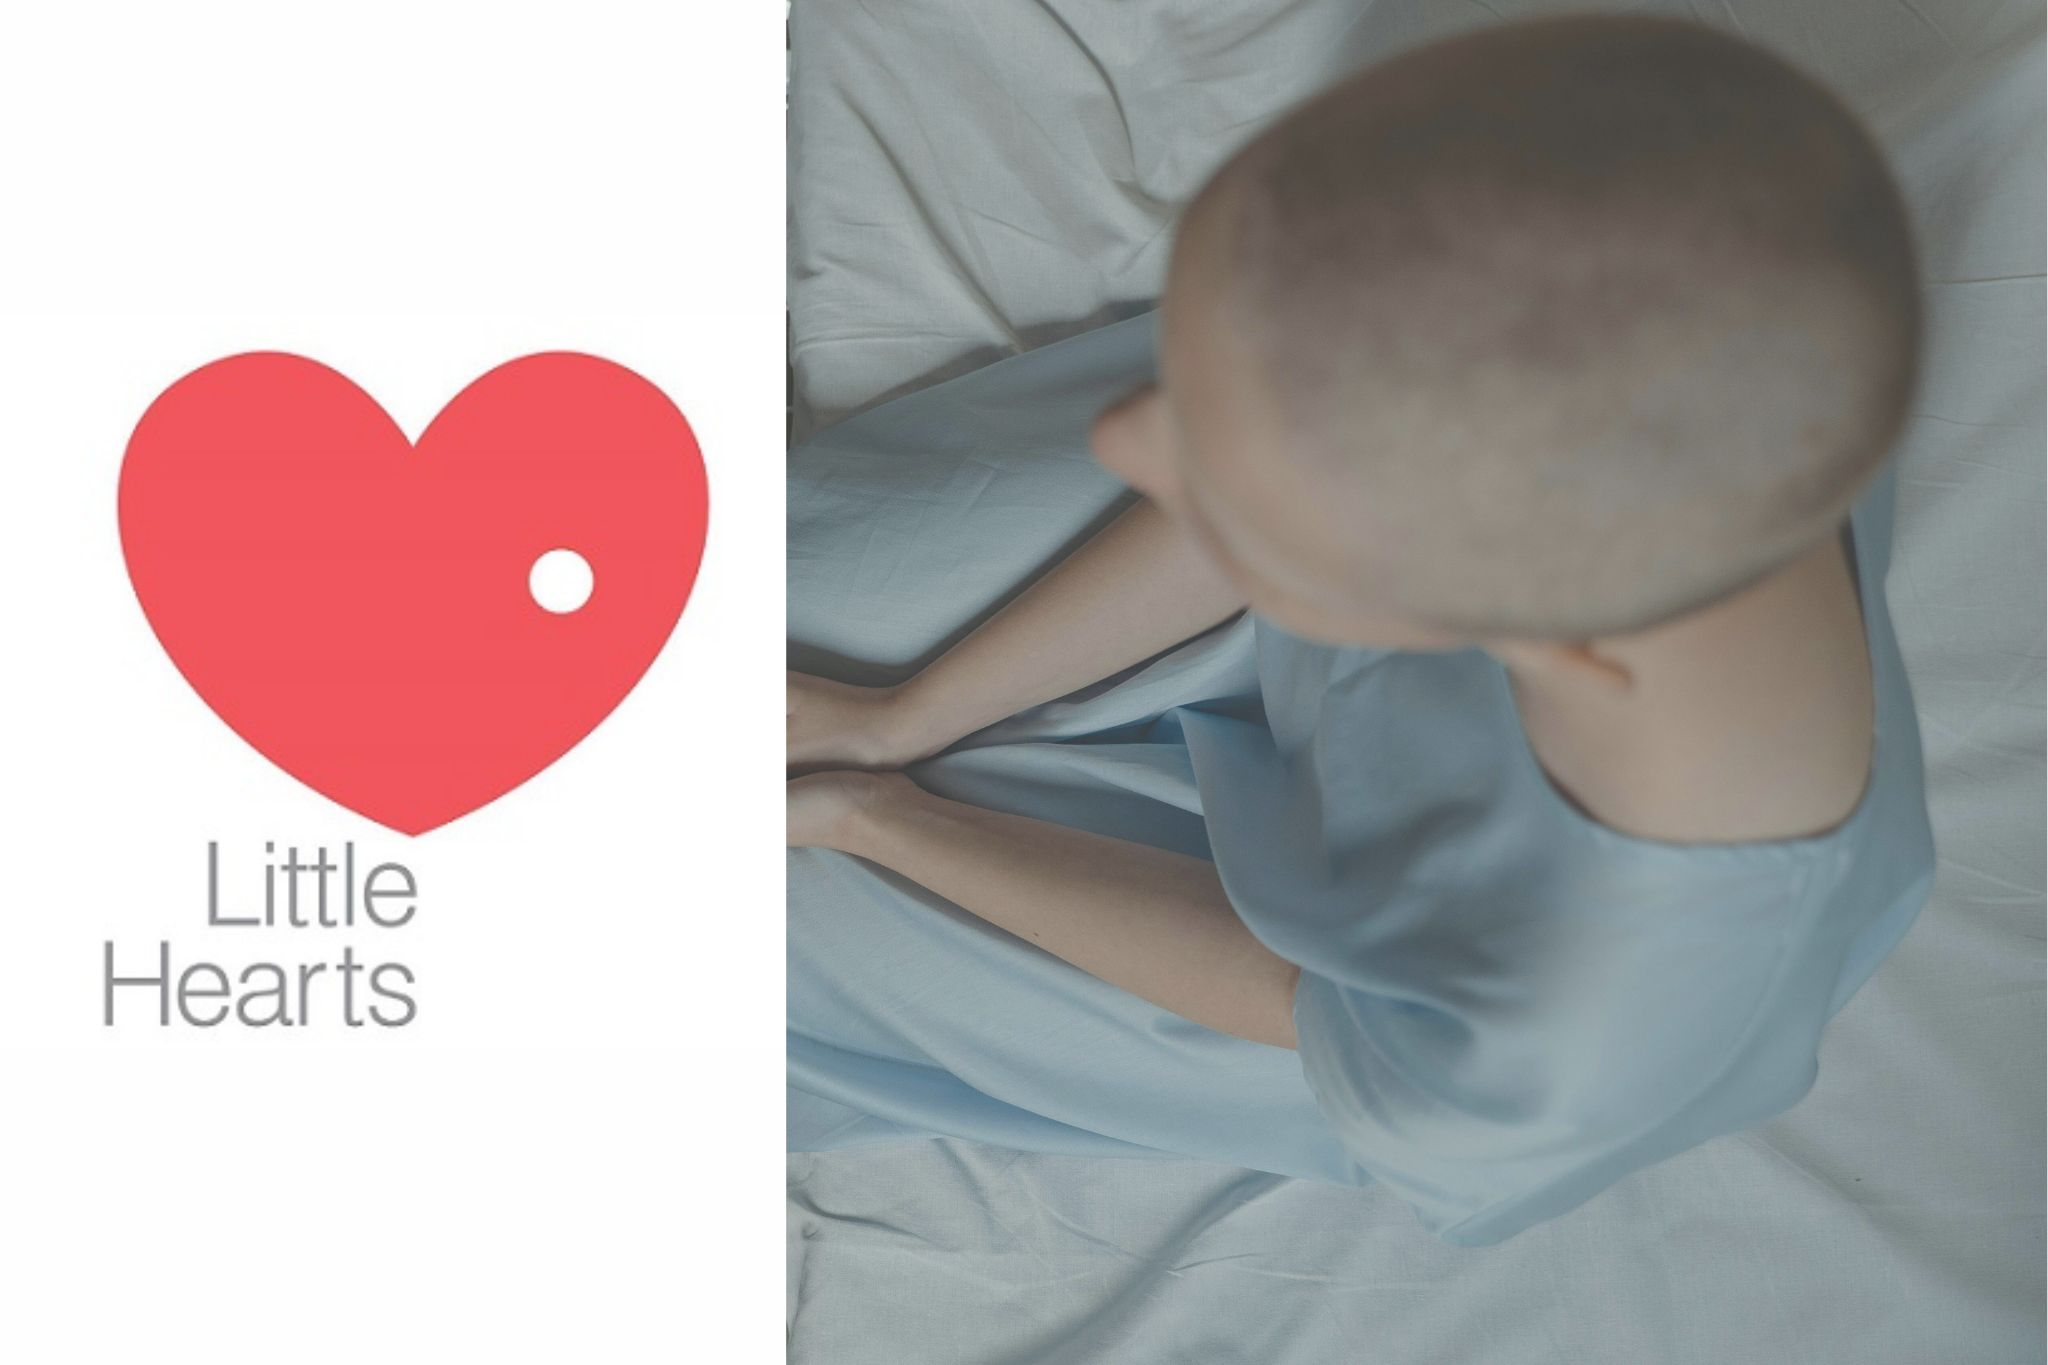
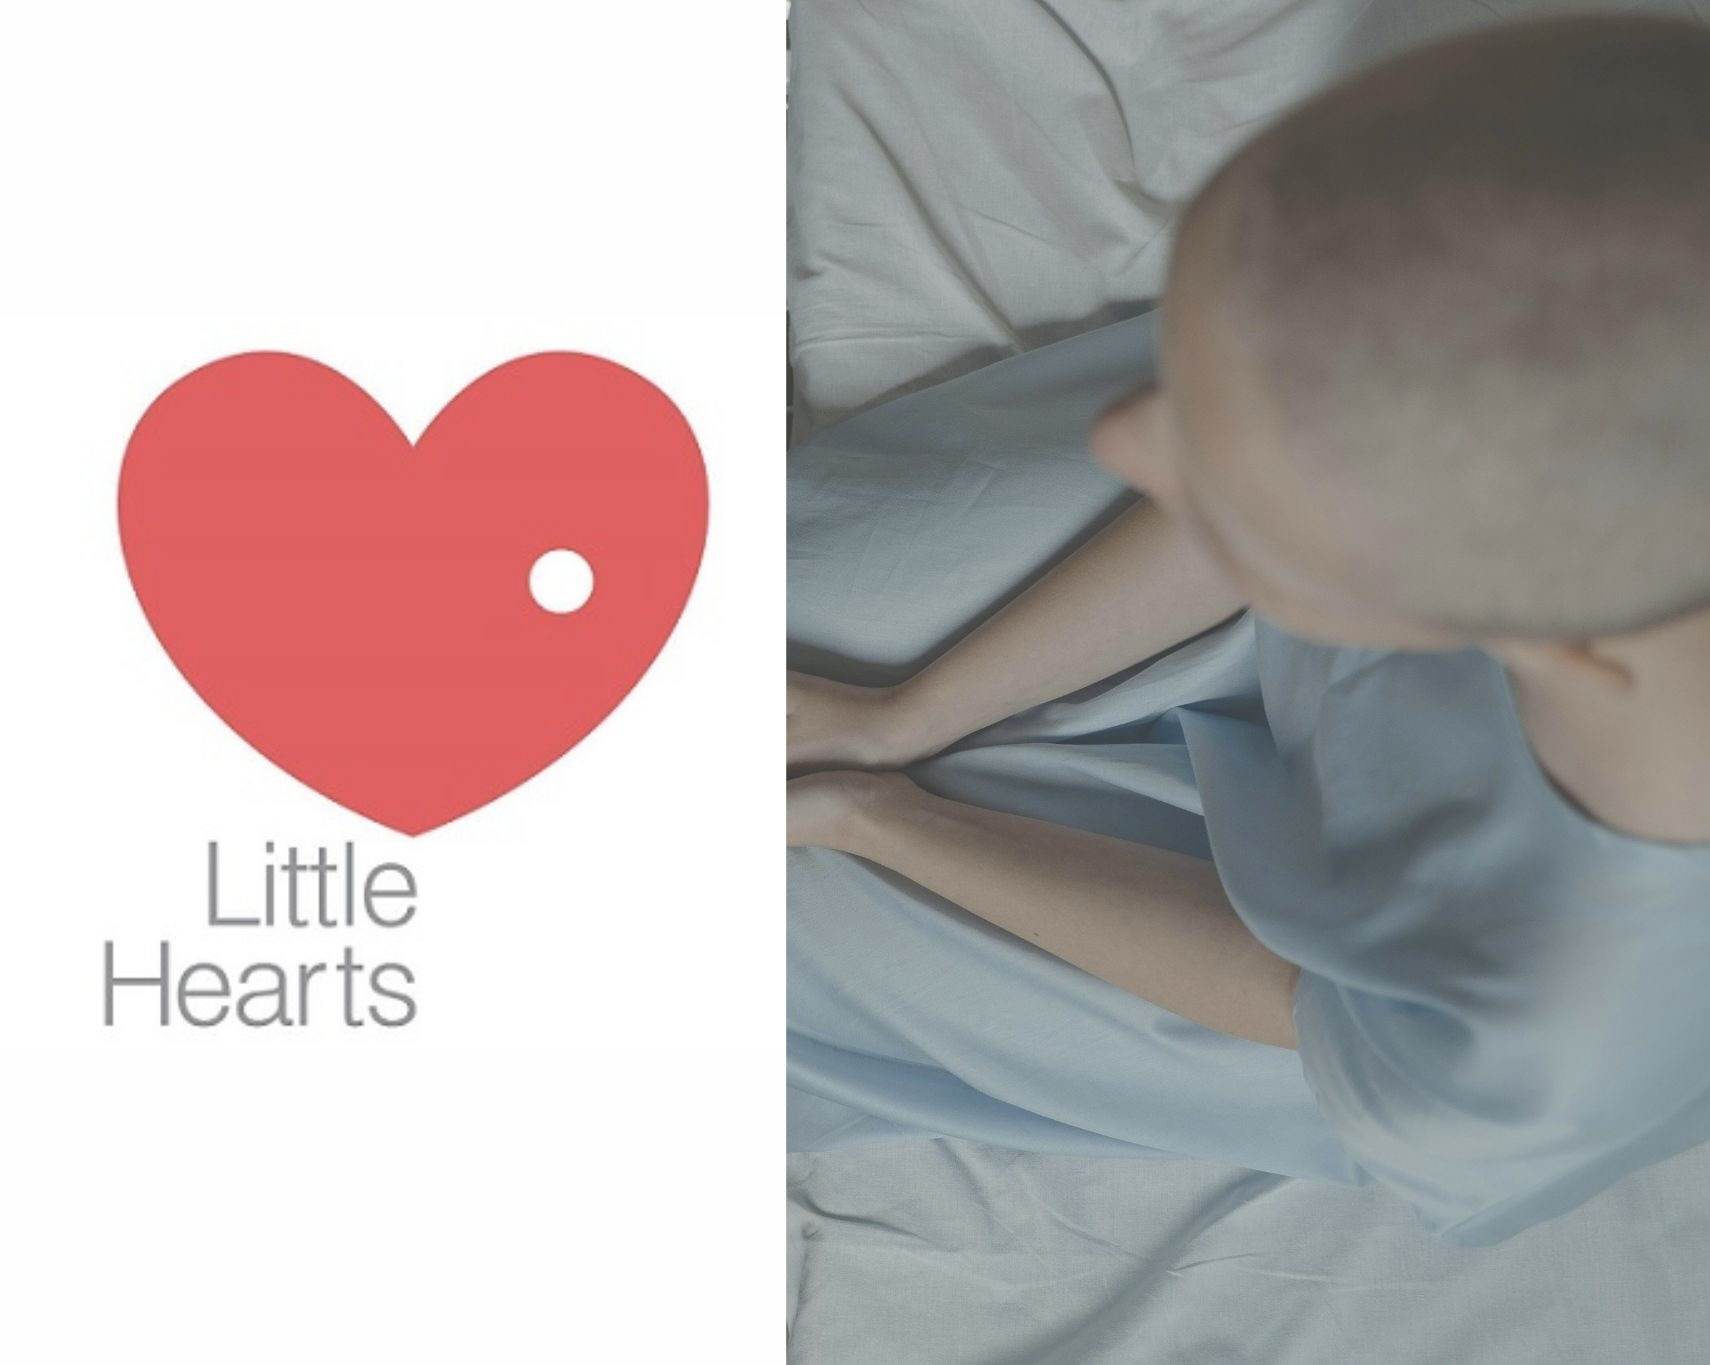
style: update card image height to 250 in DonationScreen and update donation2 image

diff --git a/components/Screens/DonationScreen.js b/components/Screens/DonationScreen.js
@@ -8,7 +8,7 @@ import {
   ScrollView,
   RefreshControl,
 } from "react-native";
-import { useFocusEffect } from '@react-navigation/native';
+import { useFocusEffect } from "@react-navigation/native";
 import { useNavigation } from "@react-navigation/native";
 import { COLORS } from "../utils/Constants";
 import CustomText from "../utils/CustomText";
@@ -22,7 +22,7 @@ const DonationScreen = () => {
     "Help save young hearts and brave lives",
     "Protecting nature, one step at a time",
     "Reduce. Reuse. Rethink.",
-    "Powering a greener tomorrow"
+    "Powering a greener tomorrow",
   ];
 
   const tileContentSets = [
@@ -31,57 +31,57 @@ const DonationScreen = () => {
         id: 1,
         image: require("../../assets/donation.jpg"),
         title: "Why Donate?",
-        text: "Your support helps fund life-saving treatments and essential medical care for those in need, including children born with heart conditions and cancer patients relying on free public healthcare. Every donation brings hope, healing, and a second chance at life."
+        text: "Your support helps fund life-saving treatments and essential medical care for those in need, including children born with heart conditions and cancer patients relying on free public healthcare. Every donation brings hope, healing, and a second chance at life.",
       },
       {
         id: 2,
         image: require("../../assets/donation2.jpg"),
         title: "Where Your Donation Goes",
-        text: "Your donation directly supports two of Sri Lanka's most vital healthcare causes — the Little Hearts Fund, which is building a cardiac and critical care unit for children in need of life-saving heart treatment, and the National Cancer Hospital, which provides free cancer care to thousands of patients.\n\nEvery contribution helps purchase essential medical equipment, improve hospital infrastructure, and ensure that children and cancer patients receive the urgent care they deserve."
-      }
+        text: "Your donation directly supports two of Sri Lanka's most vital healthcare causes — the Little Hearts Fund, which is building a cardiac and critical care unit for children in need of life-saving heart treatment, and the National Cancer Hospital, which provides free cancer care to thousands of patients.\n\nEvery contribution helps purchase essential medical equipment, improve hospital infrastructure, and ensure that children and cancer patients receive the urgent care they deserve.",
+      },
     ],
     [
       {
         id: 1,
         image: require("../../assets/clean_earth.jpg"),
         title: "Protect Our Planet",
-        text: "Every small action counts. From reducing plastic use to supporting clean-up drives, your contributions help preserve nature for future generations. Join us in building a greener tomorrow."
+        text: "Every small action counts. From reducing plastic use to supporting clean-up drives, your contributions help preserve nature for future generations. Join us in building a greener tomorrow.",
       },
       {
         id: 2,
-        image: require("../../assets/tree_planting.jpg"), 
+        image: require("../../assets/tree_planting.jpg"),
         title: "Reforest Sri Lanka",
-        text: "We aim to plant 10,000 trees across deforested and urban areas in Sri Lanka. Your donation supports tree-planting programs, community education, and green infrastructure initiatives."
-      }
+        text: "We aim to plant 10,000 trees across deforested and urban areas in Sri Lanka. Your donation supports tree-planting programs, community education, and green infrastructure initiatives.",
+      },
     ],
     [
       {
         id: 1,
         image: require("../../assets/recycling.jpg"),
         title: "Support Recycling Efforts",
-        text: "We partner with local communities to establish recycling centers and run awareness campaigns about proper waste segregation. Help us reduce landfill waste and promote a circular economy."
+        text: "We partner with local communities to establish recycling centers and run awareness campaigns about proper waste segregation. Help us reduce landfill waste and promote a circular economy.",
       },
       {
         id: 2,
         image: require("../../assets/zero_waste.jpg"),
         title: "Go Zero Waste",
-        text: "Your donations fund zero-waste kits, eco-workshops, and education for schools and rural families. Together, we can shift daily habits and create cleaner, healthier neighborhoods."
-      }
+        text: "Your donations fund zero-waste kits, eco-workshops, and education for schools and rural families. Together, we can shift daily habits and create cleaner, healthier neighborhoods.",
+      },
     ],
     [
       {
         id: 1,
         image: require("../../assets/solar_panels.jpg"),
         title: "Bring Solar to Rural Schools",
-        text: "We're installing solar panels in underprivileged schools to reduce electricity costs and promote green learning. Your donation helps fund equipment and training for a brighter, cleaner future."
+        text: "We're installing solar panels in underprivileged schools to reduce electricity costs and promote green learning. Your donation helps fund equipment and training for a brighter, cleaner future.",
       },
       {
         id: 2,
-        image: require("../../assets/eco_education.jpg"), 
+        image: require("../../assets/eco_education.jpg"),
         title: "Educate for a Greener Future",
-        text: "Sustainability begins with awareness. Our eco-education program reaches thousands of students, teaching practical skills in conservation, composting, and energy efficiency."
-      }
-    ]
+        text: "Sustainability begins with awareness. Our eco-education program reaches thousands of students, teaching practical skills in conservation, composting, and energy efficiency.",
+      },
+    ],
   ];
 
   const [donationTiles, setDonationTiles] = useState(tileContentSets[0]);
@@ -91,17 +91,16 @@ const DonationScreen = () => {
 
   const cycleContent = useCallback(async () => {
     setRefreshing(true);
-    
+
     try {
-      await new Promise(resolve => setTimeout(resolve, 250));
-      
+      await new Promise((resolve) => setTimeout(resolve, 250));
+
       const nextIndex = (currentContentIndex + 1) % tileContentSets.length;
       setCurrentContentIndex(nextIndex);
       setDonationTiles(tileContentSets[nextIndex]);
       setCurrentSubtitle(subtitles[nextIndex]);
-      
     } catch (error) {
-      console.error('Error refreshing content:', error);
+      console.error("Error refreshing content:", error);
     } finally {
       setRefreshing(false);
     }
@@ -113,7 +112,7 @@ const DonationScreen = () => {
 
   useFocusEffect(
     useCallback(() => {
-      const unsubscribe = navigation.addListener('tabPress', () => {
+      const unsubscribe = navigation.addListener("tabPress", () => {
         setIsTabPress(true);
       });
 
@@ -132,11 +131,7 @@ const DonationScreen = () => {
 
   const renderDonationCard = (tile) => (
     <View key={tile.id} style={styles.card}>
-      <Image
-        source={tile.image}
-        style={styles.cardImage}
-        resizeMode="cover"
-      />
+      <Image source={tile.image} style={styles.cardImage} resizeMode="cover" />
       <View style={styles.cardBody}>
         <CustomText style={styles.tileTitle}>{tile.title}</CustomText>
         <CustomText style={styles.tileText}>
@@ -169,11 +164,9 @@ const DonationScreen = () => {
     <SafeAreaView style={styles.container}>
       <View style={styles.header}>
         <CustomText style={styles.heading}>Donations</CustomText>
-        <CustomText style={styles.subtitle}>
-          {currentSubtitle}
-        </CustomText>
+        <CustomText style={styles.subtitle}>{currentSubtitle}</CustomText>
       </View>
-      <ScrollView 
+      <ScrollView
         contentContainerStyle={styles.content}
         refreshControl={
           <RefreshControl
@@ -240,7 +233,7 @@ const styles = StyleSheet.create({
   },
   cardImage: {
     width: "100%",
-    height: 435,
+    height: 250,
     borderRadius: 12,
   },
   cardBody: {
